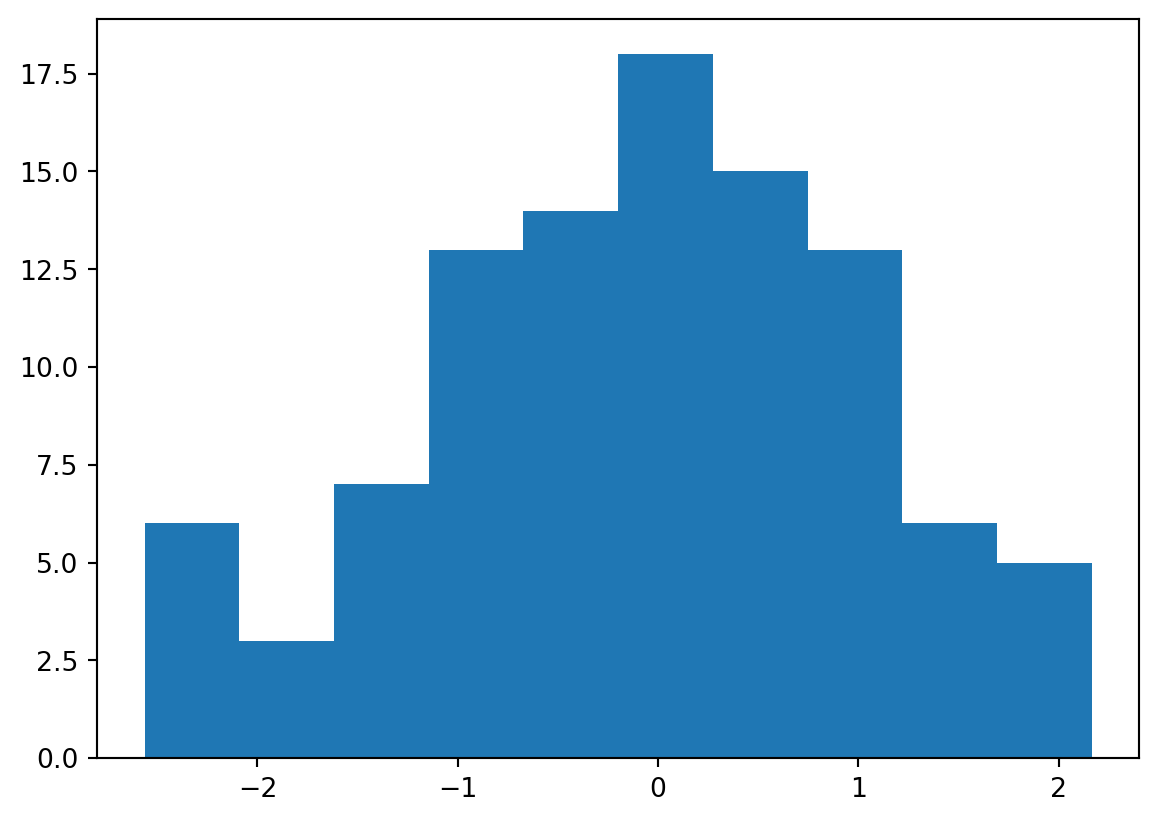
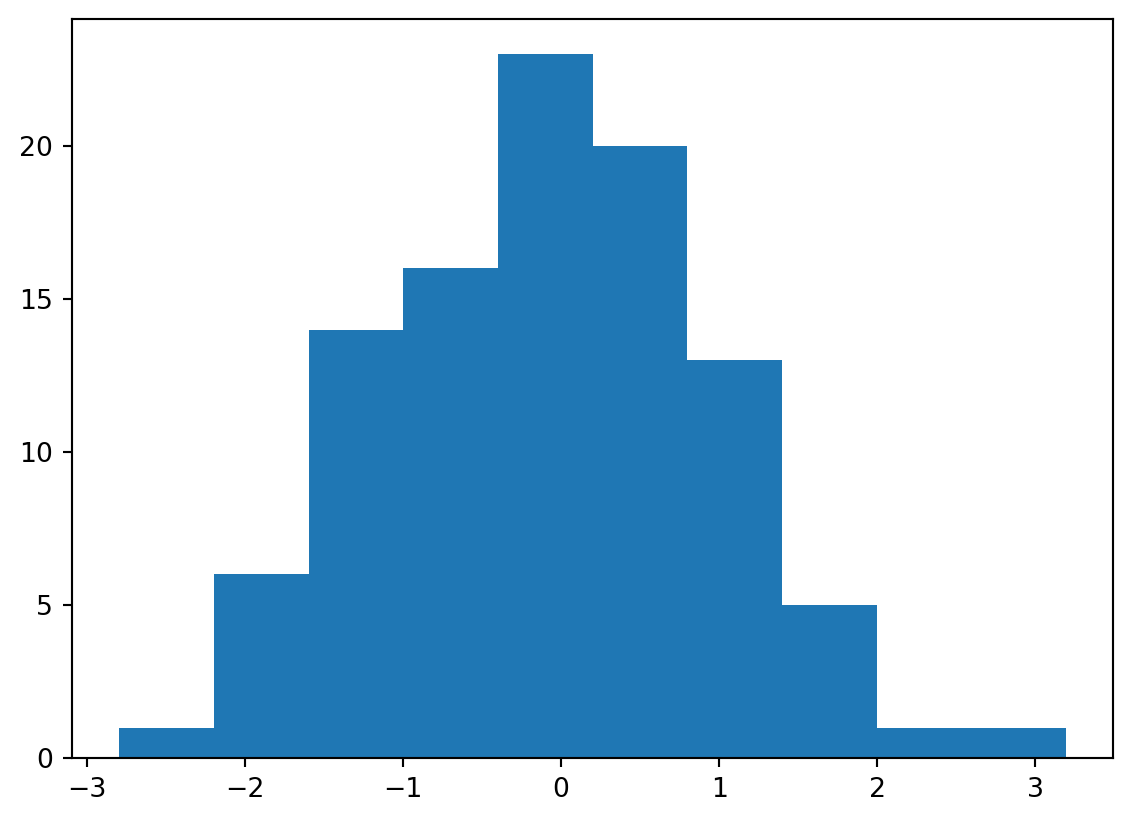
Built site for gh-pages

diff --git a/index.html b/index.html
@@ -235,9 +235,9 @@ ul.task-list li input[type="checkbox"] {
 </header>
 
 <div id="listing-buttons" class="quarto-listing quarto-listing-container-custom">
-  <button style="background-color: purple;"><a href="https://ibm.com">Ed</a></button>
-  <button style="background-color: green;"><a href="https://ibm.com">DataHub</a></button>
-  <button style="background-color: orange;"><a href="https://ibm.com">Gradescope</a></button>
+  <button style="background-color: #3D1679;"><a href="https://ibm.com">Ed</a></button>
+  <button style="background-color: #EE611A;"><a href="https://r.datahub.berkeley.edu">DataHub</a></button>
+  <button style="background-color: #0F7FFF;"><a href="https://ibm.com">Gradescope</a></button>
 <div class="listing-no-matching d-none">
 No matching items
 </div>

diff --git a/units/unit1.html b/units/unit1.html
@@ -260,10 +260,10 @@ $$
 <span id="cb1-6"><a href="#cb1-6" aria-hidden="true" tabindex="-1"></a>np.mean(x)</span></code><button title="Copy to Clipboard" class="code-copy-button"><i class="bi"></i></button></pre></div>
 </details>
 <div class="cell-output cell-output-display">
-<p><img src="unit1_files/figure-html/cell-2-output-1.png" width="579" height="411"></p>
+<p><img src="unit1_files/figure-html/cell-2-output-1.png" width="566" height="411"></p>
 </div>
 <div class="cell-output cell-output-display" data-execution_count="1">
-<pre><code>-0.0865374419156986</code></pre>
+<pre><code>-0.08376219623113837</code></pre>
 </div>
 </div>
 </section>

diff --git a/units/unit3.html b/units/unit3.html
@@ -260,7 +260,7 @@ $$
 <p><img src="unit3_files/figure-html/cell-2-output-1.png" width="579" height="411"></p>
 </div>
 <div class="cell-output cell-output-display" data-execution_count="1">
-<pre><code>0.006700315327649843</code></pre>
+<pre><code>-0.03468903564411079</code></pre>
 </div>
 </div>
 </section>
